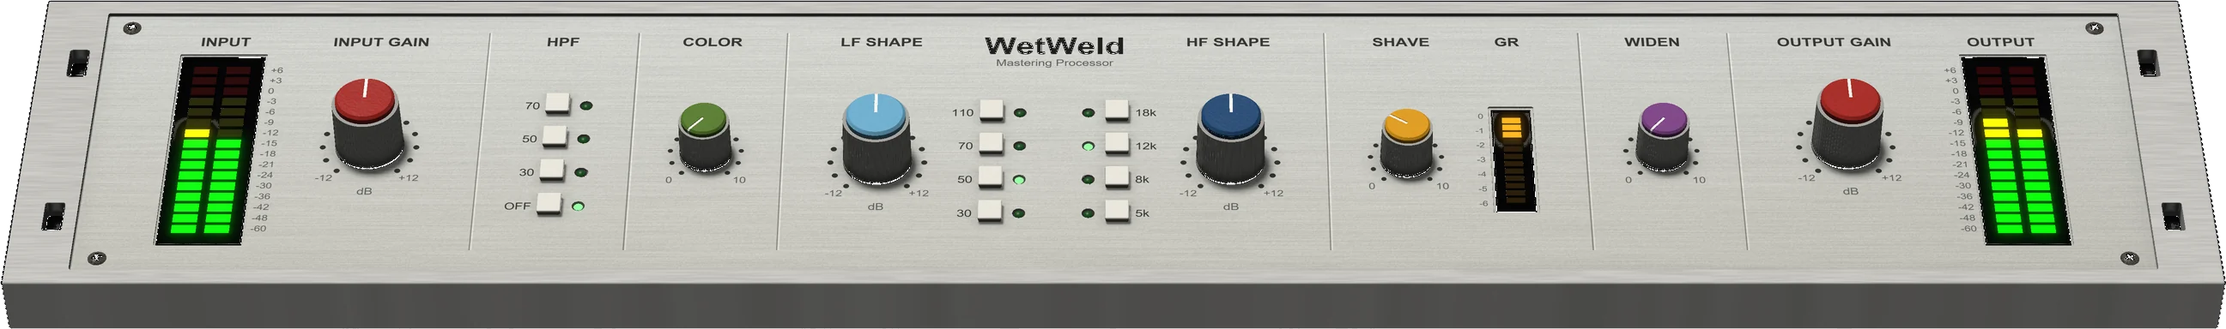
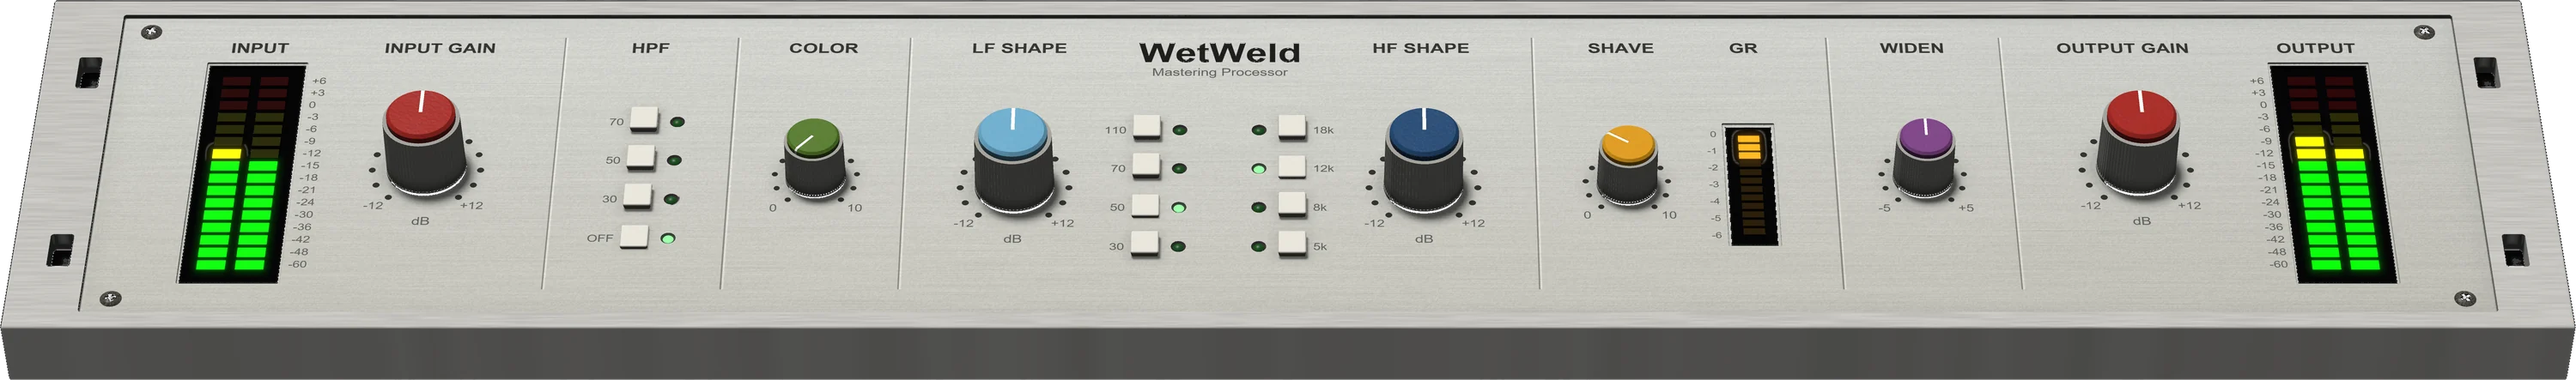
WetWeld images from the current panel: WIDEN centred on its -5..+5 scale

diff --git a/wetweld/index.html b/wetweld/index.html
@@ -57,14 +57,14 @@
                 <div class="closer-stage pan">
                     <div class="pan-view"><div class="pan-track">
                     <img src="/img/3d/wetweld.webp" alt="WetWeld, rendered in 3D" loading="lazy">
-                    <button class="spot below" style="left: 16.45%; top: 35.2%" aria-label="Input gain"><span class="spot-card"><strong>Input gain</strong>Decides how hard every stage after it works, not just how loud it is.</span></button>
-                    <button class="spot below" style="left: 25.33%; top: 44.5%" aria-label="High pass"><span class="spot-card"><strong>High pass</strong>Off, 30, 50 or 70 Hz, third order.</span></button>
-                    <button class="spot below" style="left: 31.62%; top: 38.99%" aria-label="Colour"><span class="spot-card"><strong>Colour</strong>Saturation and its soft compression on one control.</span></button>
-                    <button class="spot below" style="left: 39.35%; top: 39.66%" aria-label="Low shelf"><span class="spot-card"><strong>Low shelf</strong>Corner at 30, 50, 70 or 110 Hz, then up to 12 dB either way.</span></button>
-                    <button class="spot below" style="left: 55.24%; top: 39.97%" aria-label="High shelf"><span class="spot-card"><strong>High shelf</strong>Corner at 5, 8, 12 or 18 kHz, then up to 12 dB either way.</span></button>
-                    <button class="spot left below" style="left: 63.19%; top: 40.83%" aria-label="Shave"><span class="spot-card"><strong>Shave</strong>High-frequency transient compression, read on the meter beside it.</span></button>
-                    <button class="spot left below" style="left: 74.72%; top: 39.3%" aria-label="Widen"><span class="spot-card"><strong>Widen</strong>From true mono to twice the width that arrived.</span></button>
-                    <button class="spot left below" style="left: 83.04%; top: 35.36%" aria-label="Output gain"><span class="spot-card"><strong>Output gain</strong>Puts back what the chain cost.</span></button>
+                    <button class="spot below" style="left: 16.41%; top: 35.22%" aria-label="Input gain"><span class="spot-card"><strong>Input gain</strong>Decides how hard every stage after it works, not just how loud it is.</span></button>
+                    <button class="spot below" style="left: 25.3%; top: 44.55%" aria-label="High pass"><span class="spot-card"><strong>High pass</strong>Off, 30, 50 or 70 Hz, third order.</span></button>
+                    <button class="spot below" style="left: 31.59%; top: 39.02%" aria-label="Colour"><span class="spot-card"><strong>Colour</strong>Saturation and its soft compression on one control.</span></button>
+                    <button class="spot below" style="left: 39.33%; top: 39.7%" aria-label="Low shelf"><span class="spot-card"><strong>Low shelf</strong>Corner at 30, 50, 70 or 110 Hz, then up to 12 dB either way.</span></button>
+                    <button class="spot below" style="left: 55.24%; top: 40.0%" aria-label="High shelf"><span class="spot-card"><strong>High shelf</strong>Corner at 5, 8, 12 or 18 kHz, then up to 12 dB either way.</span></button>
+                    <button class="spot left below" style="left: 63.2%; top: 40.87%" aria-label="Shave"><span class="spot-card"><strong>Shave</strong>High-frequency transient compression, read on the meter beside it.</span></button>
+                    <button class="spot left below" style="left: 74.73%; top: 39.33%" aria-label="Widen"><span class="spot-card"><strong>Widen</strong>From true mono to twice the width that arrived.</span></button>
+                    <button class="spot left below" style="left: 83.06%; top: 35.38%" aria-label="Output gain"><span class="spot-card"><strong>Output gain</strong>Puts back what the chain cost.</span></button>
                     </div></div>
                     <button class="pan-btn pan-prev" aria-label="Slide left" hidden>&lsaquo;</button>
                     <button class="pan-btn pan-next" aria-label="Slide right">&rsaquo;</button>
